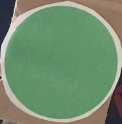
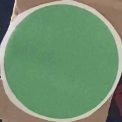
refactored track_green_fiducial to work with the new circle one as well

Changed region(s): [[0.0, 0.0, 1.0, 1.0], [0.0738, 0.9836, 0.1721, 1.0], [0.0, 0.9344, 0.0246, 1.0]]

diff --git a/src/main.py b/src/main.py
@@ -1,3 +1,4 @@
+import imghdr
 from re import template
 from typing import List, Tuple
 
@@ -38,9 +39,10 @@ upper_square_green = (75,135,130)
 # PATHS FOR SQUAT VIDEOS WITH GREEN CIRCLE FIDUCIAL
 green_circle_video       = 'assets/Green Circle/GreenCircle.mp4'
 circle_template          = 'assets/Green Circle/templates/CircleTemplate.png'
+circle_template2          = 'assets/Green Circle/templates/CircleTemplate2.png'
 isolated_circle_temlpate = 'assets/Green Circle/templates/IsolatedCircle.png'
-lower_circle_green = (60, 110, 140)
-upper_circle_green = (80, 140, 170)
+lower_circle_green = (55, 105, 135)
+upper_circle_green = (85, 145, 175)
 
 
 def analysis(path: str, template_path: str):
@@ -82,7 +84,8 @@ def color_isolated(bgr_img: Mat, lower_color: Tuple, upper_color: Tuple) -> Mat:
 
     return result
 
-def track_green_fiducial(path: str, template_path: str) -> List[List]:
+def track_green_fiducial(path: str, template_path: str, 
+                        lower_color: Tuple[int, int, int], upper_color: Tuple[int, int, int]) -> List[List]:
     # get video strem and template set up
     vid_capture = cv2.VideoCapture(path)
 
@@ -107,7 +110,7 @@ def track_green_fiducial(path: str, template_path: str) -> List[List]:
         ret, frame = vid_capture.read()
         if not ret: break
         original = frame
-        frame = color_isolated(frame, lower_square_green, upper_square_green)
+        frame = color_isolated(frame, lower_color, upper_color)
 
         # match it and draw the rectangle
         match = cv2.matchTemplate(frame, template, method) # for this, cv2.TM_CCORR worked best
@@ -127,89 +130,9 @@ def track_green_fiducial(path: str, template_path: str) -> List[List]:
     vid_capture.release()
     cv2.destroyAllWindows()
     return points
-
-#doesn't work because there are some random pixels that get caught first
-def track_first_green_pixel(path: str) -> List[List]:
-    vid = cv2.VideoCapture(path)
-    if vid.isOpened() == False:
-        print("Error opening video")
-        return
-
-    tracking_points = []
-
-    num_frame = 1
-    while vid.isOpened():
-        ret, frame = vid.read()
-        if ret == False: 
-            print("No more frames to retrieve")
-            break
-        frame = color_isolated(frame, lower_square_green, upper_square_green)
-        # util.display(frame)
-
-        if num_frame % 5 != 0: 
-            # reduce frame rate to lessen number of computations done
-            num_frame += 1
-            continue
-
-        if num_frame == 120:
-            return tracking_points
-
-        # will be set with the previous location of the first green pixel 
-        # so that only the surrounding area is searched and not the whole image
-
-        starting_x, starting_y = 0,0 
-        hsv_frame = cv2.cvtColor(frame, cv2.COLOR_BGR2HSV)
-        for y in range(starting_y, len(hsv_frame)):
-            for x in range(starting_x, len(hsv_frame[0])):
-                # because of the green isolation, everything else is (0,0,0)
-                # find first pixel with saturation greater than 100
-                if hsv_frame[y][x][1] >= 100: 
-                    print(f"Frame #{num_frame}: non-black pixel @ row {y}, col {x}")
-                    cv2.circle(frame, center=(x, y), radius=5, color=(255,255,255), thickness=-1)
-                    cv2.imshow('Frame', frame)
-                    if cv2.waitKey(1) == ord('q'):
-                        return tracking_points
-
-                    tracking_points.append([y, x])
-
-                    # gives the next iteration an idea of where to start
-                    if y > 200:
-                        starting_y = y - 100
-                    if x > 200:
-                        starting_x = x - 100
-                    break
-            else:
-                # once the inner for loop is exited, this will run
-                # it will go to the line below, and break out of the upper loop
-                continue
-            break
-        
-        num_frame += 1
-
-    return tracking_points
-
-#doesn't work
-def track_circle_fiducial(path: str, template_path: str):
     
-    template = cv2.imread(template_path)
-    # template = color_isolated(template, lower_circle_green, upper_circle_green)
-    template = cv2.cvtColor(template, cv2.COLOR_BGR2HSV)
-
-    vid = cv2.VideoCapture(path)
-    while vid.isOpened():
-        success, frame = vid.read()
-        if not success: break
-
-        frame = color_isolated(frame, lower_circle_green, upper_circle_green)
-
-        # try using template matching on the isolated green circle
-
-        cv2.imshow('Frame', frame)
-        cv2.waitKey(0)
-        break
-            # if cv2.waitKey(1) == ord('q'):
-            #     break
-    cv2.destroyAllWindows()
-
 if __name__ == '__main__':
-    track_green_fiducial(normal_speed_green, bigger_green_fiducial)
+    track_green_fiducial (
+        green_circle_video, isolated_circle_temlpate, 
+        lower_circle_green, upper_circle_green
+    )
